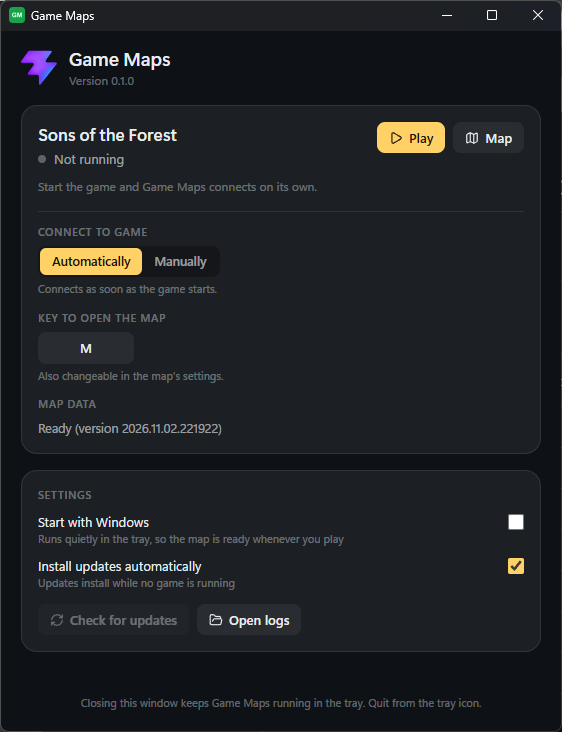
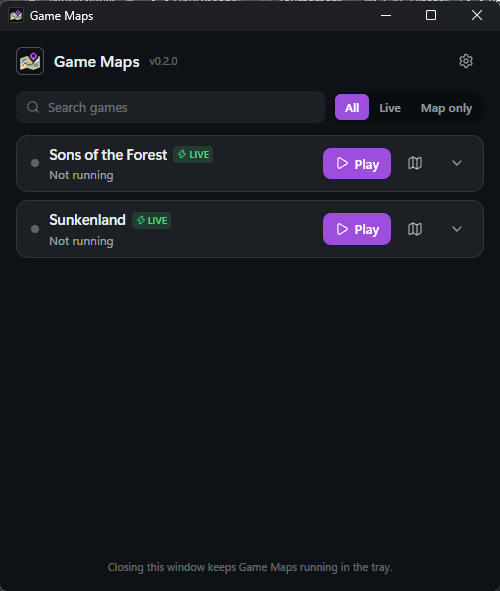
Refresh the README, docs and screenshots
Document worlds, progress, fog of war, the mini-map, the map window,
playing together, updates and where data is kept.

diff --git a/README.md b/README.md
@@ -20,8 +20,9 @@ other players, and teleport. Press a key and it's there.**
 - **Interactive map** of the whole world, built from the game's own files, with every
   cave, bunker, weapon, tool, key item and collectible pinned. Search and filter
   by category, and mark pins as found.
-- **Live location** of you, other players in multiplayer, and everything the in-game
-  GPS shows (companions, placed locators, moved vehicles).
+- **Live location** of you, other players in multiplayer, and what the game itself puts
+  on its map: companions, placed GPS locators and flags, moved vehicles. Hide these with
+  the **In-game markers** category.
 - **Teleport** anywhere on the map, to any pin, or to another player, including into
   caves and bunkers, and **teleport back** (Backspace) to where you were.
 - **Track** a pin, player, companion or vehicle with an on-screen compass and a
@@ -30,7 +31,7 @@ other players, and teleport. Press a key and it's there.**
 - **Walking routes** to what you track, on the surface and through caves, checked
   against the world as it is (blocked passages are avoided).
 - **Nearby creatures**: enemies, companions and animals around you on the map and
-  mini-map.
+  mini-map, including enemy ships in Sunkenland.
 - **Play together**: everyone on your server running Game Maps can ask each other to
   track something, ping spots on the map, and share custom pins. Peer to peer, no
   account or server.
@@ -38,15 +39,37 @@ other players, and teleport. Press a key and it's there.**
 - **Custom pins** with your own names, colors and icons.
 - **Picks up where you left off**: what you track, your selection and the map view
   are remembered.
+- **Per world**: each save, hosted world and joined world keeps its own found items,
+  pins, map state and explored areas.
+- **Fog of war**: only what you've explored is revealed, so the map doesn't spoil
+  anything. Hiding land and hiding pins are separate options, and the reveal distance is
+  yours to set.
+- **Progress**: how much of each category you've found, and what's left, nearest first.
+- **Map on a second monitor**: keep the full map open on another screen while you play.
+- **Danger alert and pings over the game**: arrows at the screen edge point toward
+  hostiles close by, with a count at the top, and friends' map pings show in the game.
+- **Recovers on its own**: if a connection or window fails it retries, and the map
+  keeps working without live features.
 - **No mod loader and no game files changed.** Works whether you host or join.
 - **Always current.** The app and its maps update themselves.
 
+<table>
+<tr>
+<td width="50%"><img src="docs/images/hud.png" alt="Mini-map, compass and waypoint over the game"><br><sub>Mini-map, compass and waypoint while you play</sub></td>
+<td width="50%"><img src="docs/images/pin-details.png" alt="A bunker's details with Track, Teleport and Mark found"><br><sub>Every pin says what's there; track it, teleport to it or mark it found</sub></td>
+</tr>
+<tr>
+<td><img src="docs/images/sunkenland.png" alt="The Sunkenland map"><br><sub>Sunkenland, drawn from the game's own world</sub></td>
+<td><img src="docs/images/fog-of-war.png" alt="Fog of war around the player"><br><sub>Fog of war: only what you've explored</sub></td>
+</tr>
+</table>
+
 ## Supported games
 
-| Game | Map | Live location | Teleport | Other players |
-|---|:---:|:---:|:---:|:---:|
-| Sons of the Forest | ✓ | ✓ | ✓ | ✓ |
-| Sunkenland | ✓ | ✓ | ✓ | ✓ |
+| Game | Map | Live location | Teleport | Other players | Nearby creatures | Separate worlds |
+|---|:---:|:---:|:---:|:---:|:---:|:---:|
+| Sons of the Forest | ✓ | ✓ | ✓ | ✓ | ✓ | ✓ |
+| Sunkenland | ✓ | ✓ | ✓ | ✓ | ✓ | ✓ |
 
 More games can be added; see [Adding a game](docs/development.md#adding-a-game).
 
@@ -59,7 +82,8 @@ More games can be added; see [Adding a game](docs/development.md#adding-a-game).
    **Run anyway**. The installer isn't code-signed yet.
 
 That's it. Game Maps downloads each game's map by itself and keeps both the app and
-the maps up to date.
+the maps up to date. To run it from source instead, see
+[Development](docs/development.md#run-the-app).
 
 ## Quick start
 
@@ -76,7 +100,8 @@ the list, or show only games with live features (**Live**) or without (**Map onl
 On each game:
 
 - **Play:** start the game through Steam. **Connect** attaches to it when it's running.
-- **Map** (map icon): open the map without the game.
+- **Map** (map icon): open that game's map without the game, to plan or look something
+  up. While a game is running, its own map is the one that opens.
 - The **arrow** shows whether the map is downloaded and up to date, and opens that
   game's settings.
 
@@ -102,11 +127,77 @@ icon.
 | Switch between surface and caves | **Surface / Underground** in the top bar (follows you automatically) |
 | Find other players and companions | **Players** in the top bar |
 | Mini-map while playing | **Picture-in-picture** in the top bar |
+| Switch world | World name in the top bar |
+| See what's left to find | **Progress** tab in the sidebar |
 | Keys, map and mini-map look, what the map shows | **Settings** (gear icon; type to search) |
 
 While Game Maps is connected, the game doesn't see the map key, so only this map
 opens (the in-game map works as usual when Game Maps isn't running). Each zoom key
 can be changed or turned off in **Settings**.
+
+### Pins and tracking
+
+Click a pin for what's there, then **Track** it, **Teleport**, or **Mark found**. Players,
+companions and vehicles work the same way, with **Follow** to keep them centered. While
+tracking, a compass and a waypoint show over the game, and a walking route shows on the
+map (Settings → Tracking turns either off). Hide a whole category with the eye next to
+it, and use **Show found** to leave out what you've collected. Collectibles are marked
+found when you walk up to them.
+
+### Worlds
+
+Game Maps sees which save or world you're in, hosted or joined, and keeps found items,
+custom pins, fog of war and the map view separate for each. The world name in the top bar
+lists the others, so you can look at them without loading them. A new game that hasn't
+been saved yet shows as *New game*, and its data moves to the save the first time you
+save.
+
+<img src="docs/images/progress.png" alt="The Progress tab" width="220" align="right">
+
+### Progress
+
+The **Progress** tab shows the share of this world's pins you've found and a bar for each
+category. Open a category to see what's left, nearest first, and click a row to go to it.
+
+### Fog of war
+
+On by default, under Settings → Full map → **Fog of war**. As you explore, the map opens
+up around you.
+
+- **Hide unexplored map** covers unexplored land; turned off, it's only shaded.
+- **Hide pins in unexplored areas** hides game pins there, on the map, in search and in
+  progress. Your own, found and tracked pins always show.
+- **Reveal distance** sets how far around you the map is revealed.
+- **Reset explored areas** starts this world over.
+
+<br clear="right">
+
+<img src="docs/images/settings.png" alt="Settings, on the Full map page" width="380" align="right">
+
+### Mini-map and alerts
+
+The mini-map sits in a corner of the screen and ignores the mouse. Pick its corner, size,
+opacity and rotation under Settings → **Mini-map**. **Hide for alerts** fades it out while
+danger markers or pings are on or next to it, so nothing is hidden behind it.
+
+The **Danger alert** (Settings → Map content) points toward hostiles within the alert
+distance, with a count at the top of the screen.
+
+### Second monitor
+
+Turn on **Map window on another monitor** under Settings → Full map, and pick the screen.
+It's an ordinary window that follows you live and works like the full map while you keep
+playing. Closing the window turns it off.
+
+### Playing together
+
+**Play together** is on by default (Settings → Multiplayer). Everyone in the same
+multiplayer session running Game Maps finds each other automatically, with no account or
+server.
+Right-click to ping a spot, share custom pins (they appear under **Friends' pins**), and
+ask each other to track something.
+
+<br clear="right">
 
 ## Updates
 
@@ -118,6 +209,17 @@ game starts.
 - **The app** installs new versions on its own as soon as no game is running. If you
   turn off *Install updates automatically*, it asks first instead.
 
+To check right now, use **Check for updates** under Settings → General. The arrow on a
+game in the Game Maps window shows its map's state, and a button to download it if it
+doesn't arrive on its own.
+
+Your pins, found items and settings stay through updates. They're in
+`%APPDATA%\com.gamemaps.overlay`, with a backup of each file from the last start. Map
+data, logs and exports are in `%LOCALAPPDATA%\com.gamemaps.overlay`.
+
+Publishing new map data, after a game update moves things, is covered in
+[Map data](docs/development.md#map-data) and [Releasing](docs/releasing.md#map-updates).
+
 ## Troubleshooting
 
 <details>
@@ -127,7 +229,7 @@ game starts.
   warns you if it detects exclusive fullscreen.
 - Check the game's status in the Game Maps window. It should say **Connected**. If
   hooking is set to *Manually*, click **Connect**.
-- If you changed the key, use the one shown under *Key to open the map*.
+- If you changed the key, use the one under Settings → Keys → *Open / close map*.
 </details>
 
 <details>
@@ -147,6 +249,23 @@ first download.
 </details>
 
 <details>
+<summary><b>The map opens but my position doesn't show</b></summary>
+
+Live features can stop after a game update or a failed connection. Game Maps keeps
+retrying, and meanwhile the map key still opens a plain map. Settings → Advanced →
+*Connection* shows what's happening. If a game update changed something Game Maps relies
+on, [open an issue](https://github.com/HYPExMon5ter/game-maps/issues/new/choose).
+</details>
+
+<details>
+<summary><b>The window went black or my pins look wrong</b></summary>
+
+A crashed window reloads, and Game Maps restarts itself if its web view stops, up to 3
+times in 10 minutes. After that, quit it from the tray and start it again. A damaged save
+file is moved aside at startup (`.corrupt-<time>`) and its last good copy restored.
+</details>
+
+<details>
 <summary><b>My antivirus flagged Game Maps</b></summary>
 
 Game Maps attaches to the running game to read your position, the same way other
@@ -159,7 +278,7 @@ source code is in this repository, and every release is built from it by
 <summary><b>Reporting a problem</b></summary>
 
 [Open an issue](https://github.com/HYPExMon5ter/game-maps/issues/new/choose) and
-attach the log from **Open logs** in the Game Maps window.
+attach the log from Settings → Advanced → **Log files**.
 </details>
 
 ## How it works

diff --git a/docs/planned-features.md b/docs/planned-features.md
@@ -1,0 +1,82 @@
+# Planned features
+
+Ideas for Game Maps that aren't built yet, split into features for every game and
+features for one game. Notes on effort and approach are rough; anything that runs in
+the game is measured before it ships (see the frame-time budget in
+`docs/architecture.md`).
+
+Status: **Built** (in the next release), **Planned**, **Idea** (worth doing, not designed
+yet), **Deferred** (wanted, waiting on something).
+
+## Every game
+
+### Map and navigation
+
+| Feature | Status | Notes |
+|---|---|---|
+| Per-world data | Built | The agent reports which world or save is loaded (single player, hosting, or joining someone); found items, completion, fog of war, custom pins and the map state are kept per world. Games without detection use one world per game. |
+| Fog of war | Built | Only what you've explored is revealed: unexplored land is covered and game pins there are hidden (each can be turned off). Recorded from position updates; a bitmap per world. |
+| Completion tracker | Built | Progress per collectible category with what's left, per world. |
+| Map on a second monitor | Built | An always-on, interactive map window on a chosen monitor that follows you live while you play on the main screen. |
+| Path history | Idea | A trail of where you walked this session ("where was I five minutes ago"). Shares the recording with fog of war. |
+| Death marker | Idea | A pin where you last died, to recover your gear. Death detection is per game; the pin is shared code. |
+| Collection routes | Idea | Visit what's left in a category in an efficient order (nearest-neighbor tour over the route planner). |
+| Measure tool | Idea | Right-click to measure straight-line and walking distance between points. |
+| Map window follows the game's screen | Idea | Put the map window on whichever monitor the game isn't on, when the game moves. |
+| Corner-drag resize | Deferred | Resize the full map and mini-map by dragging their corners. |
+| Mini-map edit mode | Deferred | Place the mini-map anywhere on screen, not just in a corner. |
+
+### Pins and progress
+
+| Feature | Status | Notes |
+|---|---|---|
+| Notes and screenshots on pins | Idea | Free text and an image per pin ("needs the shovel"). |
+| Pin timers | Idea | A countdown on a pin (resource respawns, crops), with a notice when it's up. |
+| Import and export pins | Idea | Share a pin set as a file or link, outside multiplayer. |
+| Manage worlds | Idea | Rename, merge or delete a world's data from the world picker. |
+| Copy pins between worlds | Planned | Comes with per-world data: copy a custom pin to every world, or to one. |
+
+### Project
+
+| Feature | Status | Notes |
+|---|---|---|
+| Usage analytics | Deferred | See how many people use the app and what they play, with no paid hosting: anonymous events to a free service (PostHog's free tier looks like the best fit: 1M events a month, unique users by a random install ID; Aptabase is an alternative at 20k events), plus GitHub release download counts for the app and each map pack. Needs a switch to turn it off per user. |
+
+### While playing
+
+| Feature | Status | Notes |
+|---|---|---|
+| Danger alert | Built | Edge-of-screen indicators toward hostile creatures within a set distance (games with creature tracking). |
+| Pings in the game | Built | Friends' map pings drawn over the game like the waypoint, for 30 seconds. |
+| Quick-mark key | Idea | A key that drops a pin where you stand without opening the map. |
+| Streamer mode | Idea | Hide coordinates, session details and player names when capturing. |
+| Controller support | Idea | Open, pan and zoom the map with a gamepad. |
+
+### Playing together
+
+| Feature | Status | Notes |
+|---|---|---|
+| Shared fog of war and found items | Idea | Optionally merge friends' explored areas and found collectibles in the same world. |
+| Relay for strict NATs | Idea | A free TURN option for players who can't connect directly. |
+
+## Sons of the Forest
+
+| Feature | Status | Notes |
+|---|---|---|
+| World detection | Built | `GameSetupManager.GetSelectedSaveId()` and `GetSaveGameType()` (single player, hosting, client). |
+| Companion status | Idea | Kelvin's and Virginia's health and whereabouts; possibly giving orders. |
+| "Where's my stuff?" | Idea | Search the contents of your storage and get the container on the map. Needs research into how storage is saved and loaded. |
+| Progress checklist | Idea | Keycards, shovel, rebreather, golden armor and other key items, linked to their pins. |
+| Time, day and weather | Idea | Readout of the in-game time, day count, season and weather. |
+| Your structures | Idea | Mark the bases and shelters you've built automatically. |
+
+## Sunkenland
+
+| Feature | Status | Notes |
+|---|---|---|
+| World detection | Built | `Mainframe.SaveManager.CurrentWorldGuid` / `CurrentWorldName`; clients use the world identifier from the session. |
+| Creature tracking | Built | Nearby enemies, enemy ships, sharks, animals and bosses on the map, with the danger alert. Ordinary enemies show as "Enemy": their faction's name is localized and not read yet. |
+| Playing together | Built | Sessions come from Photon Fusion; not tested with a second player yet. |
+| Boat and base markers | Idea | Your boat and bases on the map. |
+| Depth and oxygen | Idea | A readout while diving. |
+| Cleared areas | Idea | Wrecks and loot areas you've emptied, like collectibles marked found. |

diff --git a/docs/architecture.md b/docs/architecture.md
@@ -36,7 +36,11 @@ them. This page records the main design decisions and how the pieces fit togethe
 | Updates | Tauri updater against signed GitHub releases. Installs only while no game is running. | Never interrupts a session; signed updates can't be tampered with in transit. |
 | Routes | Surface routes come from the game's own pathfinding (Unity NavMesh, or a game's own, e.g. the A* Pathfinding Project in Sons of the Forest). Caves the game can't route in use grids from the map pack (`nav/`), searched in a web worker, and each route is then walked against the game's colliders as they are now (`crates/agent/src/walk.rs`); blocked spots are routed around for a while. | Precomputed data can't know that a rock blocks a passage, or that it's been cleared. The check costs about 1–2 ms per route. |
 | Settings | One settings panel (`apps/overlay/src/settings/`) in both windows. Each setting is an entry in `registry.tsx` (category, search words, per game or for all games, control), so the panel's categories and search cover new settings without more UI work. UI settings are saved with the user data and sent to the other window when they change; the backend owns keys, connection modes and updates (`app-settings.json`) and announces changes itself. | Settings stay findable as they grow, and either window shows the same values. |
-| Map state | Tracking, selection, search, layer and view are saved per game with the user data and restored whenever that game's map loads. | The map is as it was left across restarts, reconnects and game sessions. |
+| Worlds | The agent reports which world or save is loaded (`WorldSnapshot.world`), and found items, custom pins, map state and fog of war are kept per world (`apps/overlay/src/state/worlds.ts`). Games that don't report one use a default world, which is where everything lived before; the first world detected takes its data over. A new game without a save id yet is a provisional world whose data moves to the save when it's first saved. | Saves, hosted and joined worlds don't mix up each other's progress, and games without detection keep working as before. |
+| Failure handling | Failures degrade instead of stopping the app. A crashed page reloads; if WebView2's browser process dies, the app restarts (at most 3 times in 10 minutes). Connection failures retry with backoff (5 s up to a minute), injecting again if the agent is gone. While the agent isn't working, the app polls the map key itself, so the map still opens over the game as a plain map. Save files are checked at startup: a corrupt one is moved aside and its last good backup restored. Panics and UI errors go to the log (Settings → Advanced → Log files); agent tick panics are caught and ticks go on, until 10 of them turn live features off. Frame hooks fall back to ticking from the message pump. | The map is useful even when live features aren't, and nothing needs a manual restart. |
+| Map state | Tracking, selection, search, layer and view are saved per world with the user data and restored whenever that world's map loads. | The map is as it was left across restarts, reconnects and game sessions. |
+| Fog of war | A bitmap per world over the map's rectangle (8 m cells, ~31 KB for Sons of the Forest), revealed within a set distance of the player on the surface (100 m by default, 25–300 m), saved every 5 seconds, drawn as one image layer (soft-edged). By default it covers unexplored land and hides game pins there (on the map, in search and in progress lists; the pin filter refreshes every 2 s while exploring). Own, found and tracked pins and live markers always show. | No spoilers by default, each part can be turned off, and nothing runs per frame in the game. |
+| Map window | An ordinary window (`src-tauri/src/map_window.rs`) running the same UI in its "window" view on a monitor of the user's choice. The overlay stays in charge of recording (worlds, fog, found items) and multiplayer; the windows keep pins, found items, tracking and fog in step through events. | A second screen shows the map while playing without a second copy of anything that writes. |
 | Playing together | Copies of the app in the same multiplayer session connect peer to peer over WebRTC ([Trystero](https://github.com/dmotz/trystero)), finding each other through public Nostr relays. The room and its password come from the game session (e.g. the Steam lobby), so only players in it can join, and the relays see an opaque topic and encrypted offers. | Nothing to host or pay for, works for any game whose session can be read, and on by default without exposing anything outside the session. |
 | Hotkeys | The agent watches for the configured keys (map: default **M**; zoom: **Num +/-** and **=/-**) only while the game is focused. While the app is connected, the game doesn't see the map hotkey through Unity's legacy `Input` API, so a game map on the same key stays closed; without the app it works as usual. While the full map is open it has focus and handles the same keys itself, and the game sees no keyboard or mouse input (`crates/agent/src/focus.rs`). | No global hook, no conflict when typing outside the game, and only one map opens. |
 

diff --git a/docs/games/sunkenland.md b/docs/games/sunkenland.md
@@ -65,9 +65,15 @@ companions. Pins below sea level note their depth.
 | Teleport guards | `Global.code.player` (`PlayerCharacter`): `IsDead`, `drivingObject`, `seatObject`, `CurHelicopter` |
 | Other players | `WorldScene.code.allPlayerDummies` (includes the local player's `PlayerCharacter.playerDummy`), `PlayerDummy.myTransform`, `get_CharacterName()` / `cache_CharacterName` |
 | Companions | `WorldScene.code.Assistants`, `Assistant.TransformPosition`, `AssistantName` (Fusion `NetworkString`) / `DefaultName` |
+| Loaded world | `Mainframe.code.get_SaveManager()`: `get_IsCurrentWorldValid()`, `get_CurrentWorldGuid()`, `get_CurrentWorldName()`; when joining, `Mainframe.code.get_WorldManager()`: `get_WorldIdentifier()`, `get_WorldName()` |
+| Nearby creatures | `WorldScene.code.AllCharactersList` (`Character`; players and companions are other classes): `myTransform`, `get_IsDead()`, `Faction.IsFriendly`. `EnemyType` only names animals, sharks, mutants and bosses; ordinary enemies are `None`, often with no `Faction`, so anything alive and not friendly counts as hostile. Only characters near the player are spawned |
+| Enemy ships | `WorldScene.code.EnemyBoatComponents` (`Boat`): `TransformPosition`, `Destroied` |
+| Placed flags | `Buoy` objects (`FindObjectsOfType`, every 10 s, or 5 minutes if the search is slow; about 57 ms in a late-game world; no list holds them): `get_IsAI()` (the game's own), `get_BuoyName()`, `transformPosition`, `M_MarkerType` |
+| Map marks | `Global.code.uiCompass.get_MapMarks()`, a Fusion `NetworkDictionary`, walked through its enumerator |
+| Multiplayer session | `Fusion.NetworkRunner.get_Instances()`: the running runner's `get_IsSinglePlayer()`, `get_IsClient()`, `get_SessionInfo().get_Name()`; the player's name from `Steamworks.SteamFriends.GetPersonaName()` |
 | Boats, helicopters | `WorldScene.code.PlayerBoatComponents` (`TransformPosition`, `DisplayName`, `Destroied`), `Global.code.HelicopterControllers` |
 | Chat or console open (suppress hotkey) | `Global.code.uiCombat.uiInGameTextChat.<IsChatInputActive>k__BackingField`, `Mainframe.code.quantumConsole.<IsActive>k__BackingField` |
-| Frame hooks | `RenderPipelineManager.DoRenderLoop_Internal` (HDRP), `Global.Update`, `FPSPlayer.Update` |
+| Frame hooks | `RenderPipelineManager.DoRenderLoop_Internal` (HDRP), `Global.Update`, `FPSPlayer.Update`. These are JIT-compiled, and launches can leave no free memory near that code for a detour (`MH_ERROR_MEMORY_ALLOC`); the agent then ticks from its `PeekMessage` hook on the game's main thread (`crates/agent/src/hook.rs`) |
 
 The agent's Mono backend (`crates/unity-runtime/src/mono.rs`) uses the embedding API of
 `mono-2.0-bdwgc.dll`; frame hooks detour the JIT-compiled code of those methods.

diff --git a/docs/games/sons-of-the-forest.md b/docs/games/sons-of-the-forest.md
@@ -34,7 +34,8 @@ Unity 2022.2, IL2CPP (metadata v29), no anti-cheat. Steam app 1326470.
 | Ground height for teleports | `UnityEngine.Terrain.activeTerrain.SampleHeight(Vector3)` |
 | Cave systems (teleports, export) | `Sons.Areas.CaveSystem`: `IsInsideExtents(Vector3)`, `DoForcedEnter`, `DoForcedExit`, `_isActive`, `_areaId` |
 | Live GPS markers, Kelvin | `Sons.Gameplay.GPS.GPSLocator._activeLocators` (static `List`), `Position()`, `get_IconData()._icon`; Kelvin's tracker has the `RobbyLogo` icon |
-| Nearby creatures | `Sons.Ai.Vail.VailActorManager._instance._activeActors` (`List<VailActor>`), `get_TypeId()` / `get_ClassId()` (enum names: Cannibal and Creepy are hostile, Animal is wildlife), `IsDead()`. Kelvin (`Robby`) is left out: his GPS tracker already shows him |
+| Nearby creatures | `Sons.Ai.Vail.VailActorManager._instance._activeActors` (`List<VailActor>`), `get_TypeId()` / `get_ClassId()` (enum names: Cannibal and Creepy are hostile, Animal is wildlife), `IsDead()`. Kelvin (`Robby`) is left out: his GPS tracker already shows him. Friendly ones (Virginia) are companions in the app: listed with the players, selectable, trackable, and teleport targets |
+| Loaded save | `Sons.Gameplay.GameSetup.GameSetupManager.GetSelectedSaveId()` (a `UInt32`, 0 for a new game until it's saved) and `GetSaveGameType()` (`SinglePlayer`, `Multiplayer` when hosting, `MultiplayerClient`; `Default` for an unsaved new game) |
 | Multiplayer session | `Sons.Multiplayer.CoopLobbyManager.GetActiveInstance()` → `CoopLobby.get_LobbyId()` (a `CSteamID`), else `GameServerManager.ServerId` on dedicated servers; the player's name from `Steamworks.SteamFriends.GetPersonaName()` |
 | Route checks, breadcrumbs | `UnityEngine.Physics` rays and sphere sweeps against the world layers (`Default`, `TreeWS`, `Culling*`, `Prop`, `BasicCollider`, `Blocker`, and `Terrain` above ground); player, character, item and trigger layers are left out |
 | Item names (export) | `ItemDatabaseManager.ItemById`, `ItemData.get_Name/get_Type/get_UiData`, `ItemUiData.GetTitleLocalized()` |
